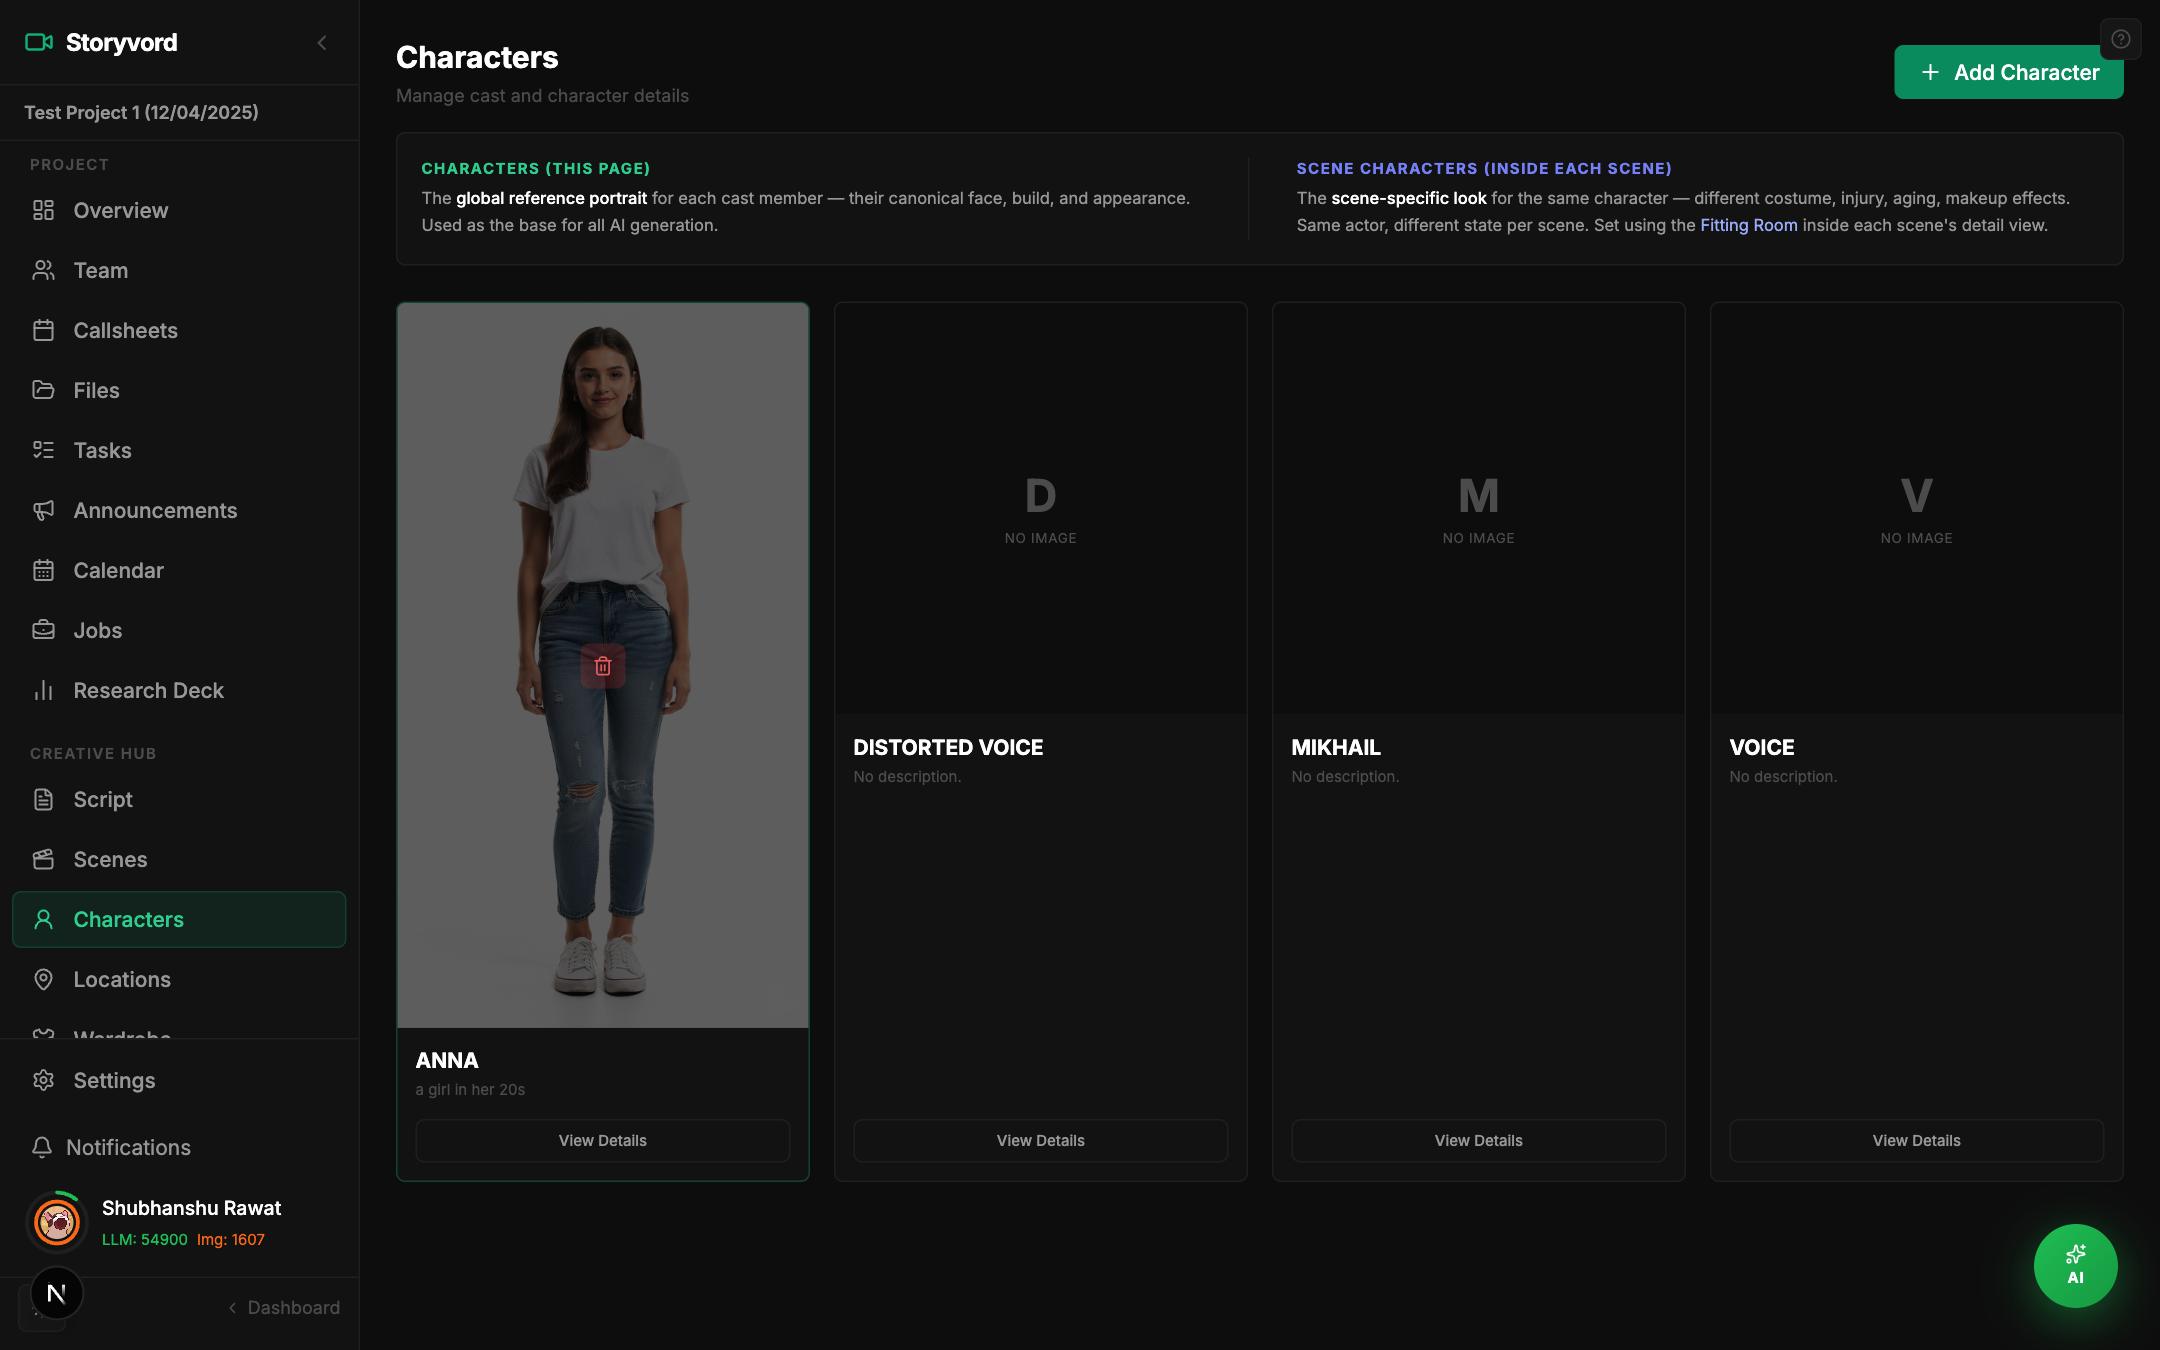
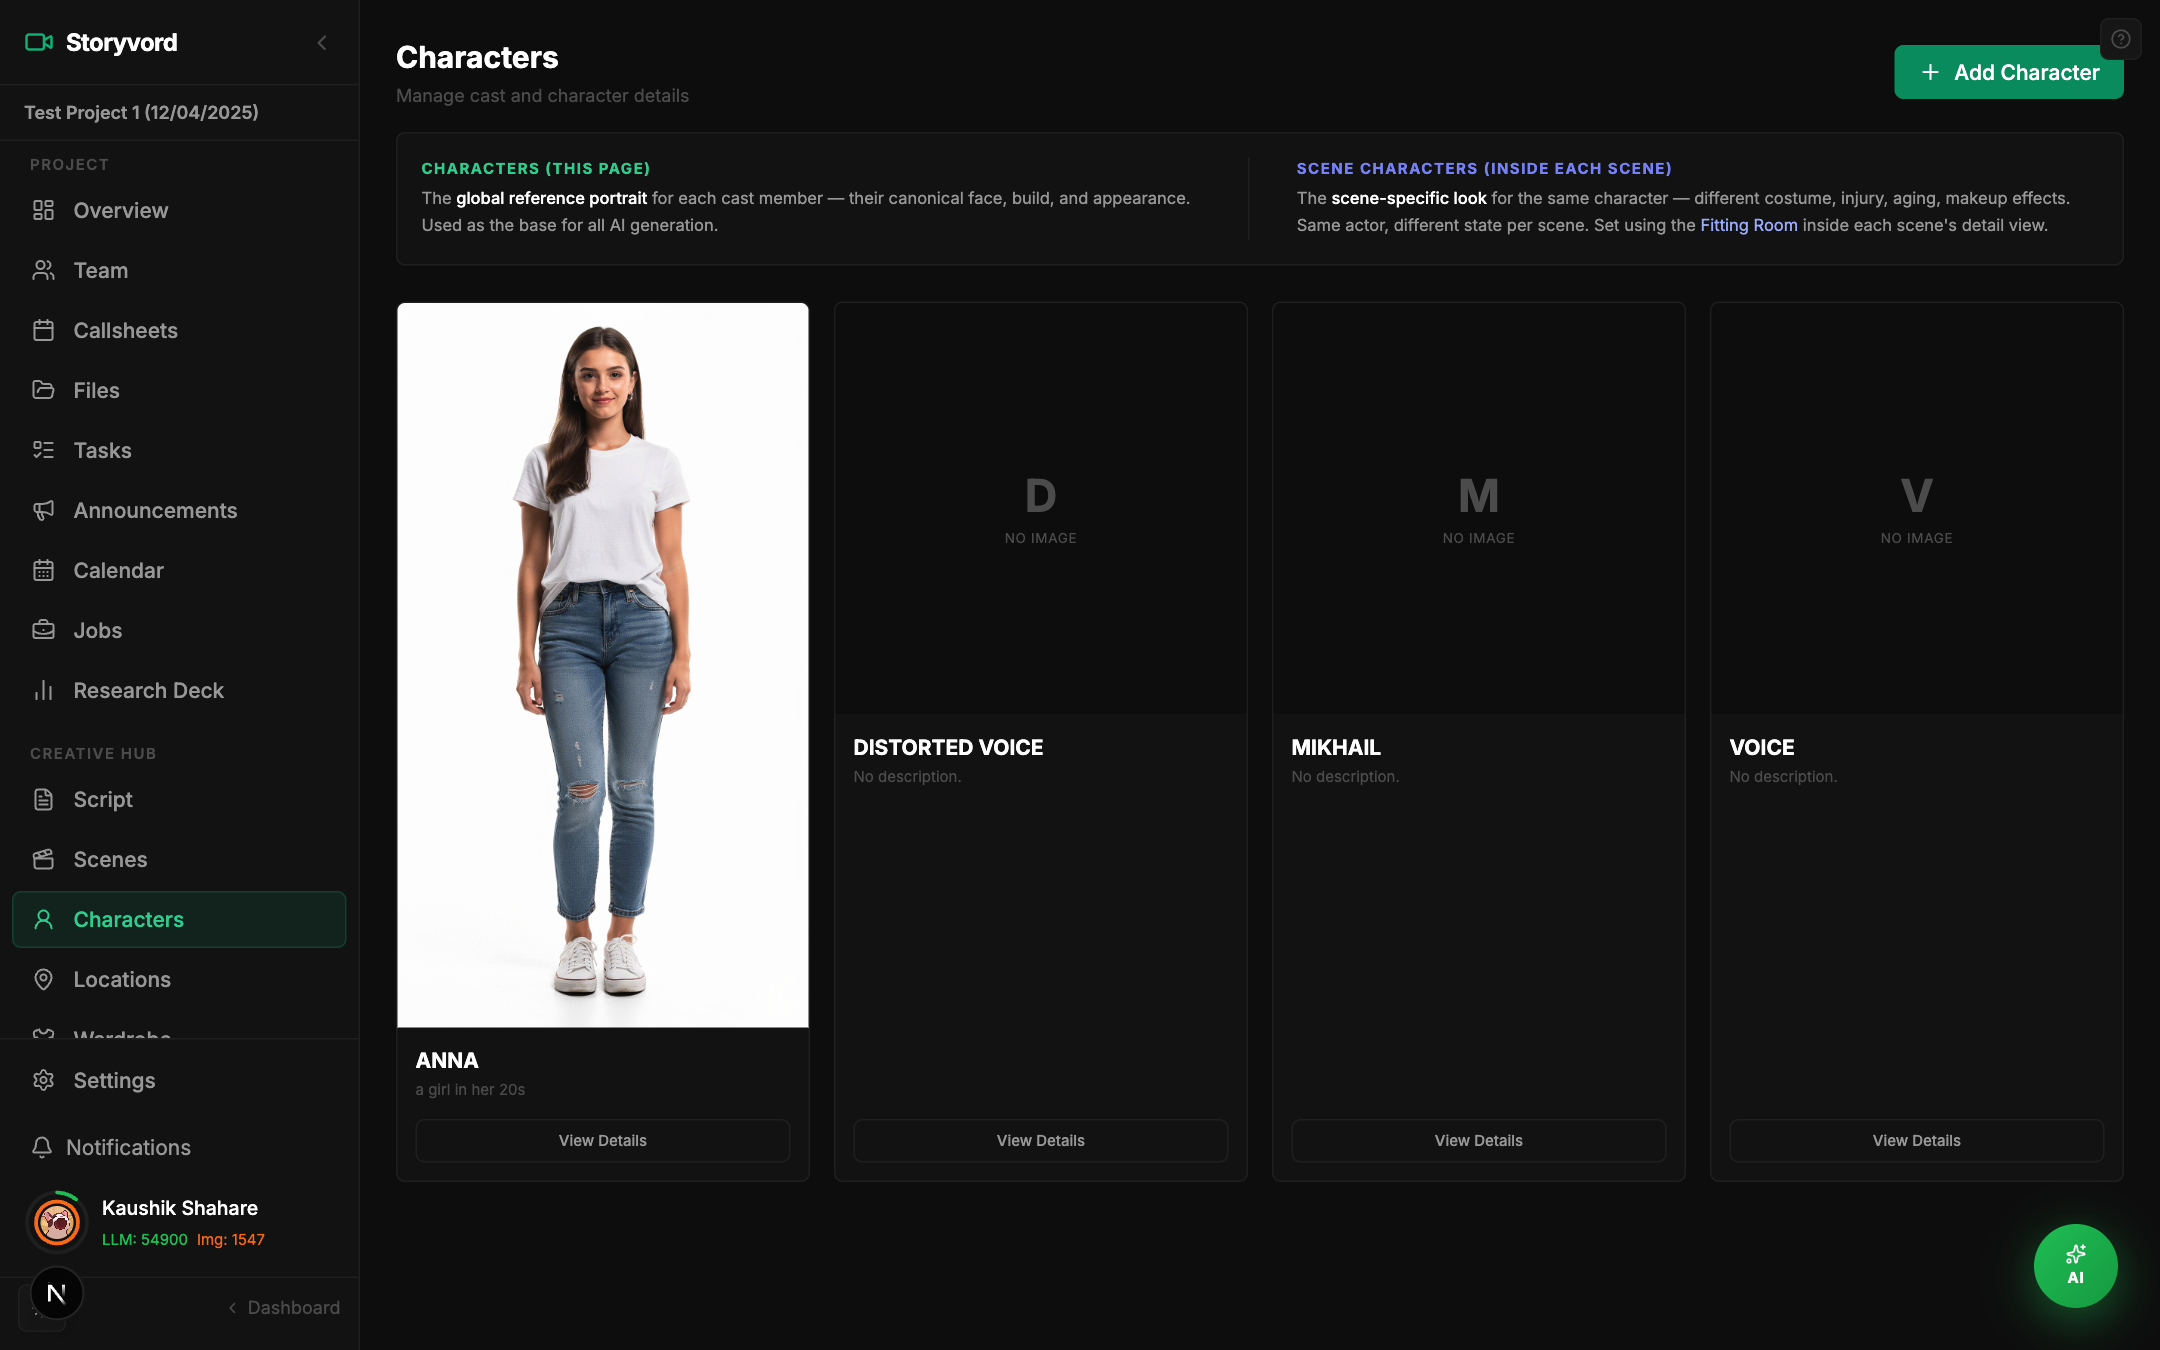
feat(landing): use real Anna character + SC03 fitting room screenshots with popup overlay

Changed region(s): [[0.1861, 0.2178, 0.3722, 0.7778], [0.062, 0.8711, 0.1241, 0.9022]]

diff --git a/app/landing/page.tsx b/app/landing/page.tsx
@@ -32,7 +32,7 @@ const FEATURES = [
     border: "#10b98120",
     items: [
       { icon: <Film size={18} />, title: "Storyboard", desc: "AI-generated shot-by-shot storyboards per scene. Switch styles (Anime, Cinematic, Sketch). Preview full sequences in Slideshow mode.", screenshot: "/screenshots/storyboard.png" },
-      { icon: <Users size={18} />, title: "Characters per Scene", desc: "Full cast management with scene-specific looks — costume, aging, makeup per scene. Global reference portrait with Fitting Room.", screenshot: "/screenshots/characters.png" },
+      { icon: <Users size={18} />, title: "Characters per Scene", desc: "Full cast management with scene-specific looks — costume, aging, makeup per scene. Global reference portrait with Fitting Room.", screenshot: "/screenshots/anna-detail.png" },
       { icon: <MapPin size={18} />, title: "Locations", desc: "Location cards with images, descriptions, and scene links. Your scouting board organised by the AI breakdown.", screenshot: "/screenshots/locations.png" },
     ],
   },
@@ -98,14 +98,15 @@ function GradientText({ children, colors = ["#10b981", "#6366f1"] }: { children:
 // ── Screenshot Showcase ───────────────────────────────────────────────────────
 
 const SHOWCASE_TABS = [
-  { label: "Dashboard", src: "/screenshots/dashboard.png", badge: "Overview", color: "#6366f1" },
-  { label: "Script Editor", src: "/screenshots/script.png", badge: "AI Breakdown", color: "#10b981" },
-  { label: "Storyboard", src: "/screenshots/storyboard.png", badge: "AI Generated", color: "#f59e0b" },
-  { label: "Scenes", src: "/screenshots/scenes.png", badge: "Scene Analysis", color: "#06b6d4" },
-  { label: "Characters", src: "/screenshots/characters.png", badge: "Cast & Looks", color: "#a78bfa" },
-  { label: "Locations", src: "/screenshots/locations.png", badge: "Scouting", color: "#fb923c" },
-  { label: "Research Deck", src: "/screenshots/reports.png", badge: "AI Reports", color: "#34d399" },
-  { label: "Tasks", src: "/screenshots/tasks.png", badge: "Kanban", color: "#f472b6" },
+  { label: "Dashboard",     src: "/screenshots/dashboard.png",    badge: "Overview",      color: "#6366f1" },
+  { label: "Script Editor", src: "/screenshots/script.png",       badge: "AI Breakdown",  color: "#10b981" },
+  { label: "Storyboard",    src: "/screenshots/storyboard.png",   badge: "AI Generated",  color: "#f59e0b" },
+  { label: "Scenes",        src: "/screenshots/scenes.png",       badge: "Scene Analysis",color: "#06b6d4" },
+  { label: "Characters",    src: "/screenshots/anna-detail.png",  badge: "Cast & Looks",  color: "#a78bfa", overlay: "/screenshots/anna-sc03.png" },
+  { label: "Fitting Room",  src: "/screenshots/anna-sc03.png",    badge: "Scene Costume", color: "#f472b6" },
+  { label: "Locations",     src: "/screenshots/locations.png",    badge: "Scouting",      color: "#fb923c" },
+  { label: "Research Deck", src: "/screenshots/reports.png",      badge: "AI Reports",    color: "#34d399" },
+  { label: "Tasks",         src: "/screenshots/tasks.png",        badge: "Kanban",        color: "#ec4899" },
 ];
 
 function ScreenshotShowcase() {
@@ -171,8 +172,38 @@ function ScreenshotShowcase() {
           />
           {/* gradient fade at bottom */}
           <div style={{ position: "absolute", bottom: 0, left: 0, right: 0, height: 80, background: "linear-gradient(transparent, #0f1117)" }} />
+
+          {/* SC 03 Fitting Room popup overlay — shown when tab has overlay */}
+          {tab.overlay && (
+            <div style={{
+              position: "absolute", bottom: 24, right: 24,
+              width: 260, borderRadius: 12,
+              border: `1px solid ${tab.color}50`,
+              background: "#0d0f1a",
+              boxShadow: `0 8px 40px rgba(0,0,0,.7), 0 0 0 1px ${tab.color}20`,
+              overflow: "hidden",
+              animation: "popIn .35s cubic-bezier(.34,1.56,.64,1)",
+            }}>
+              {/* mini browser bar */}
+              <div style={{ background: "#161822", borderBottom: `1px solid ${tab.color}30`, padding: "5px 8px", display: "flex", alignItems: "center", gap: 5 }}>
+                <div style={{ display: "flex", gap: 3 }}>
+                  {["#ff5f57","#febc2e","#28c840"].map(c => <div key={c} style={{ width: 6, height: 6, borderRadius: "50%", background: c }} />)}
+                </div>
+                <span style={{ fontSize: 8, color: tab.color, fontWeight: 700, marginLeft: 4 }}>SC 03 · SOUND STUDIO — Fitting Room</span>
+              </div>
+              <div style={{ position: "relative", height: 180 }}>
+                <Image src={tab.overlay} alt="SC 03 Fitting Room" fill style={{ objectFit: "cover", objectPosition: "top" }} />
+              </div>
+            </div>
+          )}
         </div>
       </div>
+      <style>{`
+        @keyframes popIn {
+          from { opacity: 0; transform: scale(.88) translateY(12px); }
+          to   { opacity: 1; transform: scale(1) translateY(0); }
+        }
+      `}</style>
 
       {/* Prev / Next */}
       <button onClick={() => go((active - 1 + SHOWCASE_TABS.length) % SHOWCASE_TABS.length)}
